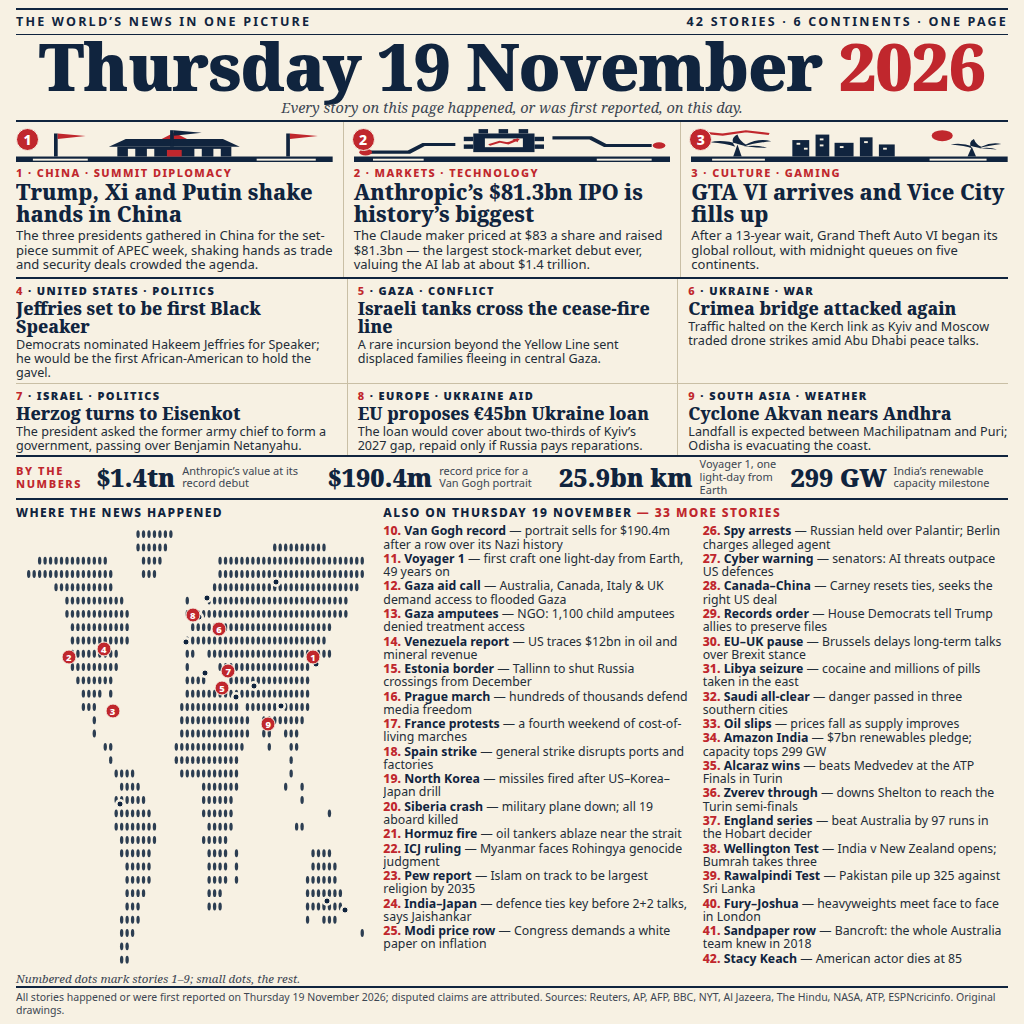
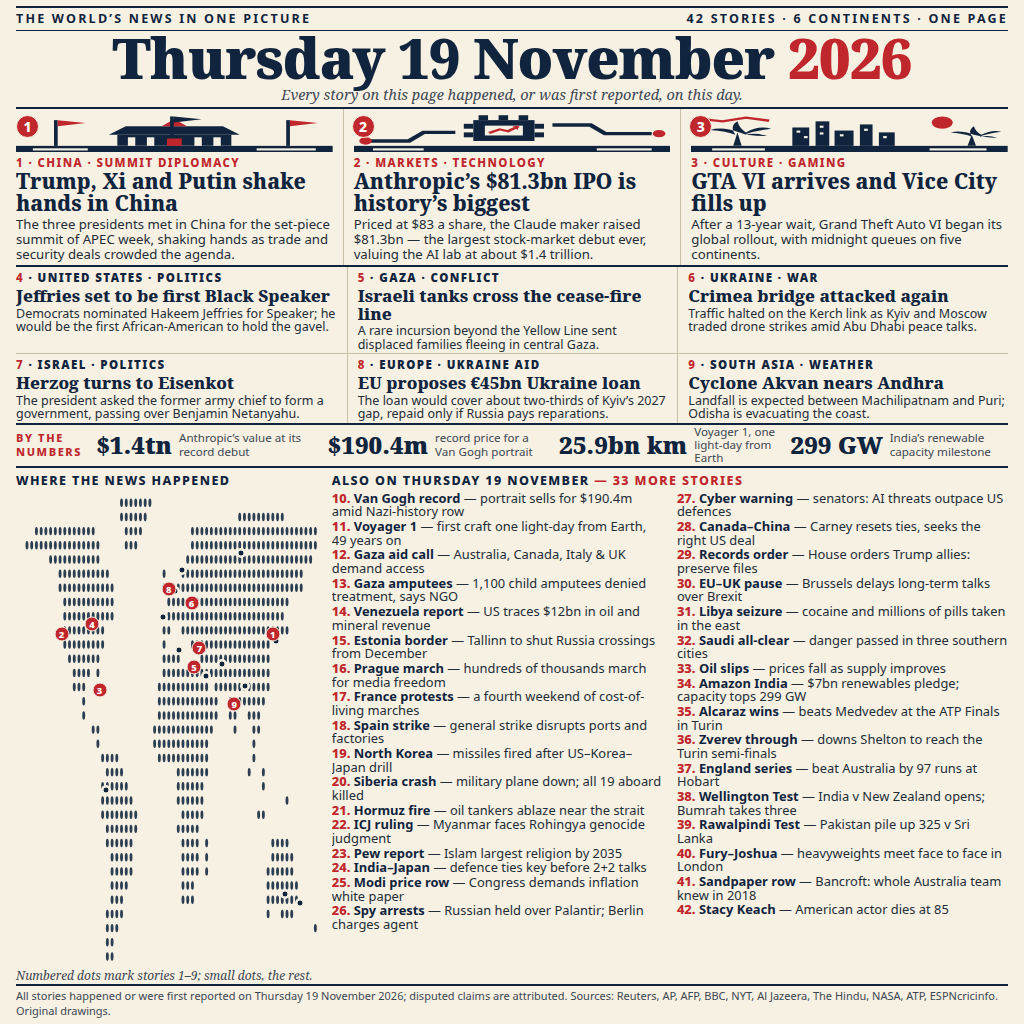
Round 2: legibility pass — larger type at every level, taller hero art, wider dispatch column; all 42 stories kept

diff --git a/page.html b/page.html
@@ -9,7 +9,7 @@
   body {
     background:#f7f1e3; color:#17222e;
     font-family:"Noto Sans", sans-serif;
-    padding:8px 16px 6px 16px;
+    padding:6px 16px 6px 16px;
     display:flex; flex-direction:column;
   }
   .serif { font-family:"Noto Serif", serif; }
@@ -21,14 +21,14 @@
     border-top:2.5px solid #10243E; border-bottom:1px solid #10243E;
     display:flex; justify-content:space-between; align-items:center;
     font-size:12.5px; font-weight:700; letter-spacing:2.2px; color:#10243E;
-    padding:3px 0 4px 0; white-space:nowrap;
+    padding:2px 0 3px 0; white-space:nowrap;
   }
 
   /* ---------- Hero date ---------- */
   .hero { text-align:center; padding:2px 0 3px 0; border-bottom:2.5px solid #10243E; }
   .hero h1 {
     font-family:"Noto Serif", serif; font-weight:900; color:#10243E;
-    font-size:66px; line-height:0.86; letter-spacing:-1px; margin:0;
+    font-size:56px; line-height:0.86; letter-spacing:-1px; margin:0;
     white-space:nowrap;
   }
   .hero h1 .yr { color:#c0272d; }
@@ -39,11 +39,11 @@
 
   /* ---------- Panels ---------- */
   .panels { display:flex; gap:0; border-bottom:2px solid #10243E; }
-  .panel { flex:1; padding:6px 10px 5px 10px; overflow:hidden; position:relative; }
+  .panel { flex:1; padding:5px 10px 4px 10px; overflow:hidden; position:relative; }
   .panel + .panel { border-left:1px solid #c9bfa5; }
   .panel:first-child { padding-left:0; }
   .panel:last-child { padding-right:0; }
-  .panel svg.art { display:block; width:100%; height:34px; }
+  .panel svg.art { display:block; width:100%; height:38px; }
   .numcirc {
     position:absolute; top:6px; left:8px; width:23px; height:23px; border-radius:50%;
     background:#c0272d; color:#fff; font-weight:800; font-size:14px;
@@ -51,13 +51,13 @@
     border:1.5px solid #f7f1e3;
   }
   .panel:first-child .numcirc { left:0; }
-  .kicker { font-size:11px; font-weight:800; letter-spacing:1.4px; color:#c0272d; margin:3px 0 1px 0; white-space:nowrap; }
-  .panel h2 { font-family:"Noto Serif", serif; font-weight:800; font-size:21.5px; line-height:1.03; color:#10243E; margin:0 0 3px 0; }
-  .panel p { font-size:13px; line-height:1.13; margin:0; color:#232d38; }
+  .kicker { font-size:11.5px; font-weight:800; letter-spacing:1.4px; color:#c0272d; margin:3px 0 1px 0; white-space:nowrap; }
+  .panel h2 { font-family:"Noto Serif", serif; font-weight:800; font-size:21px; line-height:1.02; color:#10243E; margin:0 0 3px 0; }
+  .panel p { font-size:13.2px; line-height:1.12; margin:0; color:#232d38; }
 
   /* ---------- Modules ---------- */
   .modules { display:grid; grid-template-columns:1fr 1fr 1fr; border-bottom:2px solid #10243E; }
-  .mod { padding:4px 10px 3px 10px; overflow:hidden; }
+  .mod { padding:3px 10px 2px 10px; overflow:hidden; }
   .mod:nth-child(3n+1) { padding-left:0; }
   .mod:nth-child(3n) { padding-right:0; }
   .mod:nth-child(n+4) { border-top:1px solid #c9bfa5; }
@@ -65,25 +65,25 @@
   .mod:nth-child(4) { border-left:none; }
   .mod .kicker { margin:0 0 2px 0; }
   .mod .kicker b { color:#10243E; }
-  .mod h3 { font-family:"Noto Serif", serif; font-weight:800; font-size:17.5px; line-height:1.02; color:#10243E; margin:0 0 2px 0; }
-  .mod p { font-size:12.6px; line-height:1.11; margin:0; color:#232d38; }
+  .mod h3 { font-family:"Noto Serif", serif; font-weight:800; font-size:17px; line-height:1.02; color:#10243E; margin:0 0 2px 0; }
+  .mod p { font-size:12.5px; line-height:1.09; margin:0; color:#232d38; }
   .mnum { color:#c0272d; }
 
   /* ---------- By the numbers ---------- */
   .numbers {
     display:flex; align-items:center; gap:14px;
-    border-bottom:2px solid #10243E; padding:1px 0 2px 0;
+    border-bottom:2px solid #10243E; padding:0 0 1px 0;
   }
   .numbers .lbl { font-size:11px; font-weight:800; letter-spacing:1.6px; color:#c0272d; white-space:nowrap; line-height:1.25; }
   .numitem { display:flex; align-items:center; gap:7px; flex:1; }
-  .numitem .big { font-family:"Noto Serif", serif; font-weight:900; font-size:25px; color:#10243E; white-space:nowrap; line-height:1; }
-  .numitem .cap { font-size:11px; line-height:1.15; color:#3c4652; }
+  .numitem .big { font-family:"Noto Serif", serif; font-weight:900; font-size:24px; color:#10243E; white-space:nowrap; line-height:1; }
+  .numitem .cap { font-size:11.6px; line-height:1.15; color:#3c4652; }
 
   /* ---------- Bottom split ---------- */
-  .bottom { display:flex; gap:16px; flex:1; min-height:0; padding-top:4px; }
-  .leftcol { width:36%; display:flex; flex-direction:column; }
-  .rightcol { width:64%; display:flex; flex-direction:column; }
-  .colhead { font-size:12px; font-weight:800; letter-spacing:1.4px; color:#10243E; margin:0 0 3px 0; white-space:nowrap; }
+  .bottom { display:flex; gap:12px; flex:1; min-height:0; padding-top:4px; }
+  .leftcol { width:31%; display:flex; flex-direction:column; }
+  .rightcol { width:69%; display:flex; flex-direction:column; }
+  .colhead { font-size:12.5px; font-weight:800; letter-spacing:1.4px; color:#10243E; margin:0 0 3px 0; white-space:nowrap; }
   .colhead .red { color:#c0272d; }
   .mapwrap { position:relative; width:100%; flex:1; min-height:0; }
   .mapwrap svg { display:block; width:100%; height:100%; }
@@ -98,16 +98,16 @@
     background:#10243E; transform:translate(-50%,-50%);
     border:1px solid #f7f1e3; box-shadow:0 0 0 1.5px #f7f1e3; z-index:2;
   }
-  .mapcap { font-size:11.5px; font-style:italic; font-family:"Noto Serif", serif; color:#3c4652; margin-top:3px; }
+  .mapcap { font-size:12px; font-style:italic; font-family:"Noto Serif", serif; color:#3c4652; margin-top:3px; }
   .microlist { columns:2; column-gap:14px; flex:1; min-height:0; overflow:hidden; }
-  .microlist div { font-size:12.3px; line-height:1.08; color:#232d38; margin:0 0 1px 0; break-inside:avoid; }
+  .microlist div { font-size:12.9px; line-height:1.06; color:#232d38; margin:0 0 1px 0; break-inside:avoid; }
   .microlist b { color:#10243E; }
   .microlist .n { color:#c0272d; font-weight:800; }
 
   /* ---------- Footer ---------- */
   footer {
     border-top:2.5px solid #10243E; padding-top:3px;
-    font-size:10.5px; line-height:1.3; color:#3c4652;
+    font-size:11px; line-height:1.3; color:#3c4652;
   }
 </style>
 </head>
@@ -168,7 +168,7 @@
     <div class="numcirc">1</div>
     <div class="kicker">1 &middot; CHINA &middot; SUMMIT DIPLOMACY</div>
     <h2>Trump, Xi and Putin shake hands in China</h2>
-    <p>The three presidents gathered in China for the set-piece summit of APEC week, shaking hands as trade and security deals crowded the agenda.</p>
+    <p>The three presidents met in China for the set-piece summit of APEC week, shaking hands as trade and security deals crowded the agenda.</p>
   </article>
 
   <article class="panel">
@@ -193,7 +193,7 @@
     <div class="numcirc">2</div>
     <div class="kicker">2 &middot; MARKETS &middot; TECHNOLOGY</div>
     <h2>Anthropic&rsquo;s $81.3bn IPO is history&rsquo;s biggest</h2>
-    <p>The Claude maker priced at $83 a share and raised $81.3bn &mdash; the largest stock-market debut ever, valuing the AI lab at about $1.4 trillion.</p>
+    <p>Priced at $83 a share, the Claude maker raised $81.3bn &mdash; the largest stock-market debut ever, valuing the AI lab at about $1.4 trillion.</p>
   </article>
 
   <article class="panel">
@@ -301,38 +301,38 @@
   <div class="rightcol">
     <p class="colhead">ALSO ON THURSDAY 19 NOVEMBER <span class="red">&mdash; 33 MORE STORIES</span></p>
     <div class="microlist">
-      <div><span class="n">10.</span> <b>Van Gogh record</b> &mdash; portrait sells for $190.4m after a row over its Nazi history</div>
+      <div><span class="n">10.</span> <b>Van Gogh record</b> &mdash; portrait sells for $190.4m amid Nazi-history row</div>
       <div><span class="n">11.</span> <b>Voyager 1</b> &mdash; first craft one light-day from Earth, 49 years on</div>
-      <div><span class="n">12.</span> <b>Gaza aid call</b> &mdash; Australia, Canada, Italy &amp; UK demand access to flooded Gaza</div>
-      <div><span class="n">13.</span> <b>Gaza amputees</b> &mdash; NGO: 1,100 child amputees denied treatment access</div>
+      <div><span class="n">12.</span> <b>Gaza aid call</b> &mdash; Australia, Canada, Italy &amp; UK demand access</div>
+      <div><span class="n">13.</span> <b>Gaza amputees</b> &mdash; 1,100 child amputees denied treatment, says NGO</div>
       <div><span class="n">14.</span> <b>Venezuela report</b> &mdash; US traces $12bn in oil and mineral revenue</div>
       <div><span class="n">15.</span> <b>Estonia border</b> &mdash; Tallinn to shut Russia crossings from December</div>
-      <div><span class="n">16.</span> <b>Prague march</b> &mdash; hundreds of thousands defend media freedom</div>
+      <div><span class="n">16.</span> <b>Prague march</b> &mdash; hundreds of thousands march for media freedom</div>
       <div><span class="n">17.</span> <b>France protests</b> &mdash; a fourth weekend of cost-of-living marches</div>
       <div><span class="n">18.</span> <b>Spain strike</b> &mdash; general strike disrupts ports and factories</div>
       <div><span class="n">19.</span> <b>North Korea</b> &mdash; missiles fired after US&ndash;Korea&ndash;Japan drill</div>
       <div><span class="n">20.</span> <b>Siberia crash</b> &mdash; military plane down; all 19 aboard killed</div>
       <div><span class="n">21.</span> <b>Hormuz fire</b> &mdash; oil tankers ablaze near the strait</div>
       <div><span class="n">22.</span> <b>ICJ ruling</b> &mdash; Myanmar faces Rohingya genocide judgment</div>
-      <div><span class="n">23.</span> <b>Pew report</b> &mdash; Islam on track to be largest religion by 2035</div>
-      <div><span class="n">24.</span> <b>India&ndash;Japan</b> &mdash; defence ties key before 2+2 talks, says Jaishankar</div>
-      <div><span class="n">25.</span> <b>Modi price row</b> &mdash; Congress demands a white paper on inflation</div>
-      <div><span class="n">26.</span> <b>Spy arrests</b> &mdash; Russian held over Palantir; Berlin charges alleged agent</div>
+      <div><span class="n">23.</span> <b>Pew report</b> &mdash; Islam largest religion by 2035</div>
+      <div><span class="n">24.</span> <b>India&ndash;Japan</b> &mdash; defence ties key before 2+2 talks</div>
+      <div><span class="n">25.</span> <b>Modi price row</b> &mdash; Congress demands inflation white paper</div>
+      <div><span class="n">26.</span> <b>Spy arrests</b> &mdash; Russian held over Palantir; Berlin charges agent</div>
       <div><span class="n">27.</span> <b>Cyber warning</b> &mdash; senators: AI threats outpace US defences</div>
       <div><span class="n">28.</span> <b>Canada&ndash;China</b> &mdash; Carney resets ties, seeks the right US deal</div>
-      <div><span class="n">29.</span> <b>Records order</b> &mdash; House Democrats tell Trump allies to preserve files</div>
-      <div><span class="n">30.</span> <b>EU&ndash;UK pause</b> &mdash; Brussels delays long-term talks over Brexit stance</div>
+      <div><span class="n">29.</span> <b>Records order</b> &mdash; House orders Trump allies: preserve files</div>
+      <div><span class="n">30.</span> <b>EU&ndash;UK pause</b> &mdash; Brussels delays long-term talks over Brexit</div>
       <div><span class="n">31.</span> <b>Libya seizure</b> &mdash; cocaine and millions of pills taken in the east</div>
       <div><span class="n">32.</span> <b>Saudi all-clear</b> &mdash; danger passed in three southern cities</div>
       <div><span class="n">33.</span> <b>Oil slips</b> &mdash; prices fall as supply improves</div>
       <div><span class="n">34.</span> <b>Amazon India</b> &mdash; $7bn renewables pledge; capacity tops 299 GW</div>
       <div><span class="n">35.</span> <b>Alcaraz wins</b> &mdash; beats Medvedev at the ATP Finals in Turin</div>
       <div><span class="n">36.</span> <b>Zverev through</b> &mdash; downs Shelton to reach the Turin semi-finals</div>
-      <div><span class="n">37.</span> <b>England series</b> &mdash; beat Australia by 97 runs in the Hobart decider</div>
+      <div><span class="n">37.</span> <b>England series</b> &mdash; beat Australia by 97 runs at Hobart</div>
       <div><span class="n">38.</span> <b>Wellington Test</b> &mdash; India v New Zealand opens; Bumrah takes three</div>
-      <div><span class="n">39.</span> <b>Rawalpindi Test</b> &mdash; Pakistan pile up 325 against Sri Lanka</div>
+      <div><span class="n">39.</span> <b>Rawalpindi Test</b> &mdash; Pakistan pile up 325 v Sri Lanka</div>
       <div><span class="n">40.</span> <b>Fury&ndash;Joshua</b> &mdash; heavyweights meet face to face in London</div>
-      <div><span class="n">41.</span> <b>Sandpaper row</b> &mdash; Bancroft: the whole Australia team knew in 2018</div>
+      <div><span class="n">41.</span> <b>Sandpaper row</b> &mdash; Bancroft: whole Australia team knew in 2018</div>
       <div><span class="n">42.</span> <b>Stacy Keach</b> &mdash; American actor dies at 85</div>
     </div>
   </div>
